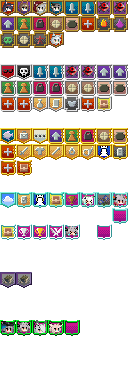
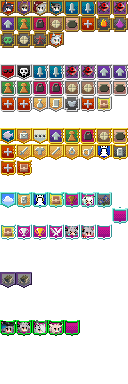
뱃지 변경

Changed region(s): [[0.875, 0.5, 1.0, 0.5625], [0.625, 0.5625, 0.75, 0.625]]

diff --git a/Arrrknights/core/src/main/java/com/shatteredpixel/shatteredpixeldungeon/Badges.java b/Arrrknights/core/src/main/java/com/shatteredpixel/shatteredpixeldungeon/Badges.java
@@ -160,7 +160,7 @@ public class Badges {
 		CHAMPION_3                  ( 114 ),
 		CHAMPION_4                  ( 114 ),
 		EVILTIME_END                  ( 116 ),
-		WILL    ( 103 ),
+		WILL    ( 117 ),
 
 		//Puple
 		Get_25_STONES                (137),

diff --git a/Arrrknights/core/src/main/java/com/shatteredpixel/shatteredpixeldungeon/actors/mobs/npcs/SkinModel.java b/Arrrknights/core/src/main/java/com/shatteredpixel/shatteredpixeldungeon/actors/mobs/npcs/SkinModel.java
@@ -64,6 +64,8 @@ public class SkinModel extends NPC {
         do {
             Modle.pos = poss;
         } while (Modle.pos == -1);
+
+        Modle.SkinChange();
         level.mobs.add(Modle);
     }
 
